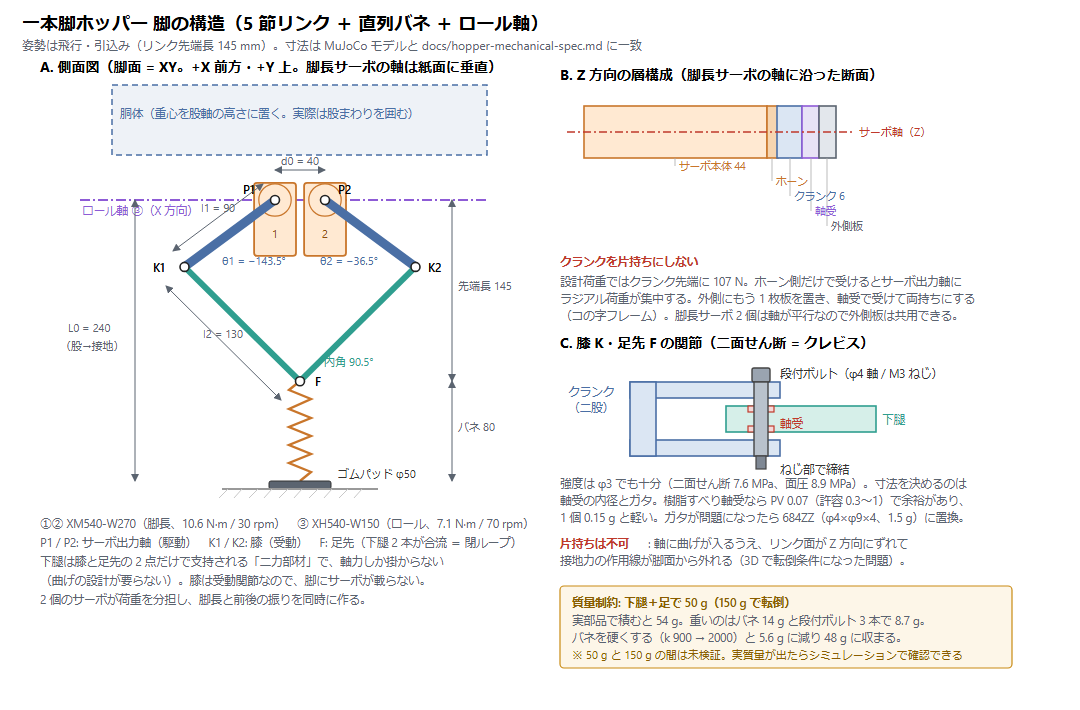
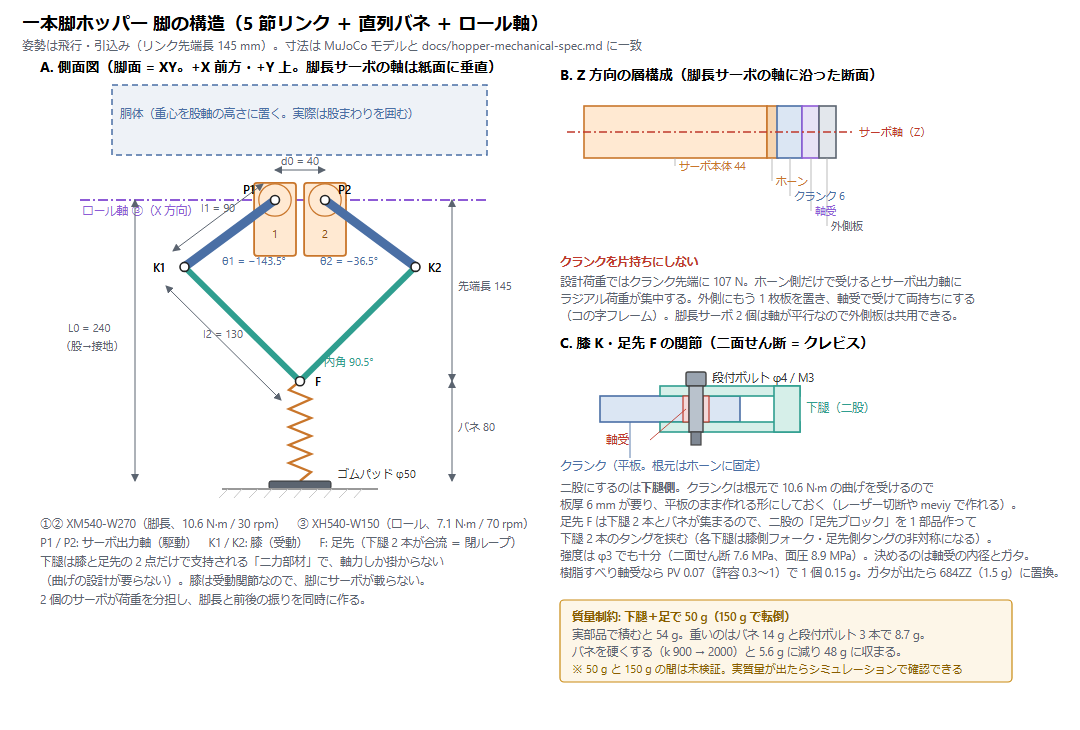
docs: 脚の構造図 パネル C を修正（二股にするのはクランクではなく下腿側）
クランクは根元で 10.6 N·m の曲げを受けるため板厚 6 mm が必要で、平板のまま作れる形に
しておきたい。足先ブロックの扱いも追記。

diff --git a/tools/make_leg_diagram.py b/tools/make_leg_diagram.py
@@ -158,52 +158,51 @@ for i, t in enumerate([
 CX, CY = 560, 348
 A('<text x="%d" y="%d" font-size="14" font-weight="bold">'
   'C. 膝 K・足先 F の関節（二面せん断 = クレビス）</text>' % (CX, CY))
-cx0, cy0 = CX + 70, CY + 34
-A('<rect x="%d" y="%d" width="150" height="16" fill="#dbe6f3" stroke="#4a6fa5" stroke-width="1.6"/>'
-  % (cx0, cy0))
-A('<rect x="%d" y="%d" width="150" height="16" fill="#dbe6f3" stroke="#4a6fa5" stroke-width="1.6"/>'
-  % (cx0, cy0 + 58))
-A('<rect x="%d" y="%d" width="26" height="74" fill="#dbe6f3" stroke="#4a6fa5" stroke-width="1.6"/>'
-  % (cx0, cy0))
-A('<rect x="%d" y="%d" width="150" height="26" fill="#d6efe9" stroke="#2f9e8f" stroke-width="1.6"/>'
-  % (cx0 + 96, cy0 + 24))
-for yy in (cy0 + 24, cy0 + 44):
-    A('<rect x="%d" y="%d" width="26" height="6" fill="#f3d9d9" stroke="#c0392b" stroke-width="1.2"/>'
-      % (cx0 + 118, yy))
-A('<rect x="%d" y="%d" width="18" height="14" rx="2" fill="#9aa4b0" stroke="#444" stroke-width="1.4"/>'
-  % (cx0 + 122, cy0 - 14))
-A('<rect x="%d" y="%d" width="14" height="74" fill="#b9c2cc" stroke="#444" stroke-width="1.4"/>'
-  % (cx0 + 124, cy0))
+cx0, cy0 = 620, CY + 26
+A('<rect x="%d" y="%d" width="140" height="26" fill="#dbe6f3" stroke="#4a6fa5" stroke-width="1.6"/>'
+  % (cx0 - 20, cy0 + 22))
+A('<rect x="%d" y="%d" width="140" height="10" fill="#d6efe9" stroke="#2f9e8f" stroke-width="1.6"/>'
+  % (cx0 + 40, cy0 + 12))
+A('<rect x="%d" y="%d" width="140" height="10" fill="#d6efe9" stroke="#2f9e8f" stroke-width="1.6"/>'
+  % (cx0 + 40, cy0 + 48))
+A('<rect x="%d" y="%d" width="26" height="46" fill="#d6efe9" stroke="#2f9e8f" stroke-width="1.6"/>'
+  % (cx0 + 154, cy0 + 12))
+for xx in (cx0 + 63, cx0 + 83):
+    A('<rect x="%d" y="%d" width="6" height="26" fill="#f3d9d9" stroke="#c0392b" stroke-width="1.2"/>'
+      % (xx, cy0 + 22))
+A('<rect x="%d" y="%d" width="20" height="14" rx="2" fill="#9aa4b0" stroke="#444" stroke-width="1.4"/>'
+  % (cx0 + 66, cy0 - 2))
+A('<rect x="%d" y="%d" width="14" height="46" fill="#b9c2cc" stroke="#444" stroke-width="1.4"/>'
+  % (cx0 + 69, cy0 + 12))
 A('<rect x="%d" y="%d" width="10" height="13" fill="#7f8894" stroke="#444" stroke-width="1.2"/>'
-  % (cx0 + 126, cy0 + 74))
-A('<text x="%d" y="%d" font-size="11.5" fill="#333">段付ボルト（φ4 軸 / M3 ねじ）</text>'
-  % (cx0 + 150, cy0 - 4))
-A('<text x="%d" y="%d" font-size="11.5" fill="#333">ねじ部で締結</text>' % (cx0 + 150, cy0 + 92))
-A('<text x="%d" y="%d" font-size="11.5" fill="#4a6fa5">クランク</text>' % (cx0 - 62, cy0 + 14))
-A('<text x="%d" y="%d" font-size="11.5" fill="#4a6fa5">（二股）</text>' % (cx0 - 62, cy0 + 30))
-A('<text x="%d" y="%d" font-size="11.5" fill="#2f9e8f">下腿</text>' % (cx0 + 252, cy0 + 42))
-A('<text x="%d" y="%d" font-size="11.5" fill="#c0392b">軸受</text>' % (cx0 + 150, cy0 + 46))
-for i, t in enumerate([
-        '強度は φ3 でも十分（二面せん断 7.6 MPa、面圧 8.9 MPa）。寸法を決めるのは',
-        '軸受の内径とガタ。樹脂すべり軸受なら PV 0.07（許容 0.3〜1）で余裕があり、',
-        '1 個 0.15 g と軽い。ガタが問題になったら 684ZZ（φ4×φ9×4、1.5 g）に置換。']):
-    A('<text x="%d" y="%d" font-size="11.5" fill="#5b6470">%s</text>' % (CX, CY + 140 + i * 17, t))
-A('<text x="%d" y="%d" font-size="11.5" font-weight="600" fill="#c0392b">片持ちは不可</text>'
-  % (CX, CY + 200))
-A('<text x="%d" y="%d" font-size="11.5" fill="#5b6470">'
-  ': 軸に曲げが入るうえ、リンク面が Z 方向にずれて</text>' % (CX + 88, CY + 200))
-A('<text x="%d" y="%d" font-size="11.5" fill="#5b6470">'
-  '接地力の作用線が脚面から外れる（3D で転倒条件になった問題）。</text>' % (CX, CY + 217))
+  % (cx0 + 71, cy0 + 58))
+A('<line x1="%d" y1="%d" x2="%d" y2="%d" stroke="#4a6fa5" stroke-width="0.9"/>'
+  % (cx0 + 10, cy0 + 48, cx0 + 10, cy0 + 84))
+A('<text x="%d" y="%d" font-size="11.5" fill="#4a6fa5">クランク（平板。根元はホーンに固定）</text>'
+  % (CX, cy0 + 96))
+A('<text x="%d" y="%d" font-size="11.5" fill="#2f9e8f">下腿（二股）</text>' % (cx0 + 186, cy0 + 38))
+A('<text x="%d" y="%d" font-size="11.5" fill="#333">段付ボルト φ4 / M3</text>' % (cx0 + 92, cy0 + 8))
+A('<line x1="%d" y1="%d" x2="%d" y2="%d" stroke="#c0392b" stroke-width="0.9"/>'
+  % (cx0 + 66, cy0 + 35, cx0 + 30, cy0 + 66))
+A('<text x="%d" y="%d" font-size="11.5" fill="#c0392b">軸受</text>' % (cx0 - 14, cy0 + 70))
+for i2, t in enumerate([
+        '二股にするのは<tspan font-weight="600">下腿側</tspan>。クランクは根元で 10.6 N·m の曲げを受けるので',
+        '板厚 6 mm が要り、平板のまま作れる形にしておく（レーザー切断や meviy で作れる）。',
+        '足先 F は下腿 2 本とバネが集まるので、二股の「足先ブロック」を 1 部品作って',
+        '下腿 2 本のタングを挟む（各下腿は膝側フォーク・足先側タングの非対称になる）。',
+        '強度は φ3 でも十分（二面せん断 7.6 MPa、面圧 8.9 MPa）。決めるのは軸受の内径とガタ。',
+        '樹脂すべり軸受なら PV 0.07（許容 0.3〜1）で 1 個 0.15 g。ガタが出たら 684ZZ（1.5 g）に置換。']):
+    A('<text x="%d" y="%d" font-size="11.5" fill="#5b6470">%s</text>' % (CX, cy0 + 118 + i2 * 17, t))
 A('<rect x="%d" y="%d" width="452" height="82" fill="#fdf6e8" stroke="#c98a12" stroke-width="1.2" rx="4"/>'
-  % (CX, CY + 238))
+  % (CX, CY + 252))
 A('<text x="%d" y="%d" font-size="11.5" font-weight="600" fill="#8a5d00">'
-  '質量制約: 下腿＋足で 50 g（150 g で転倒）</text>' % (CX + 12, CY + 259))
+  '質量制約: 下腿＋足で 50 g（150 g で転倒）</text>' % (CX + 12, CY + 273))
 A('<text x="%d" y="%d" font-size="11.5" fill="#5b6470">'
-  '実部品で積むと 54 g。重いのはバネ 14 g と段付ボルト 3 本で 8.7 g。</text>' % (CX + 12, CY + 277))
+  '実部品で積むと 54 g。重いのはバネ 14 g と段付ボルト 3 本で 8.7 g。</text>' % (CX + 12, CY + 291))
 A('<text x="%d" y="%d" font-size="11.5" fill="#5b6470">'
-  'バネを硬くする（k 900 → 2000）と 5.6 g に減り 48 g に収まる。</text>' % (CX + 12, CY + 294))
+  'バネを硬くする（k 900 → 2000）と 5.6 g に減り 48 g に収まる。</text>' % (CX + 12, CY + 308))
 A('<text x="%d" y="%d" font-size="11" fill="#8a5d00">'
-  '※ 50 g と 150 g の間は未検証。実質量が出たらシミュレーションで確認できる</text>' % (CX + 12, CY + 311))
+  '※ 50 g と 150 g の間は未検証。実質量が出たらシミュレーションで確認できる</text>' % (CX + 12, CY + 325))
 A('</svg>')
 
 path = os.path.join(os.path.dirname(os.path.abspath(__file__)), '..', 'docs', 'img',
